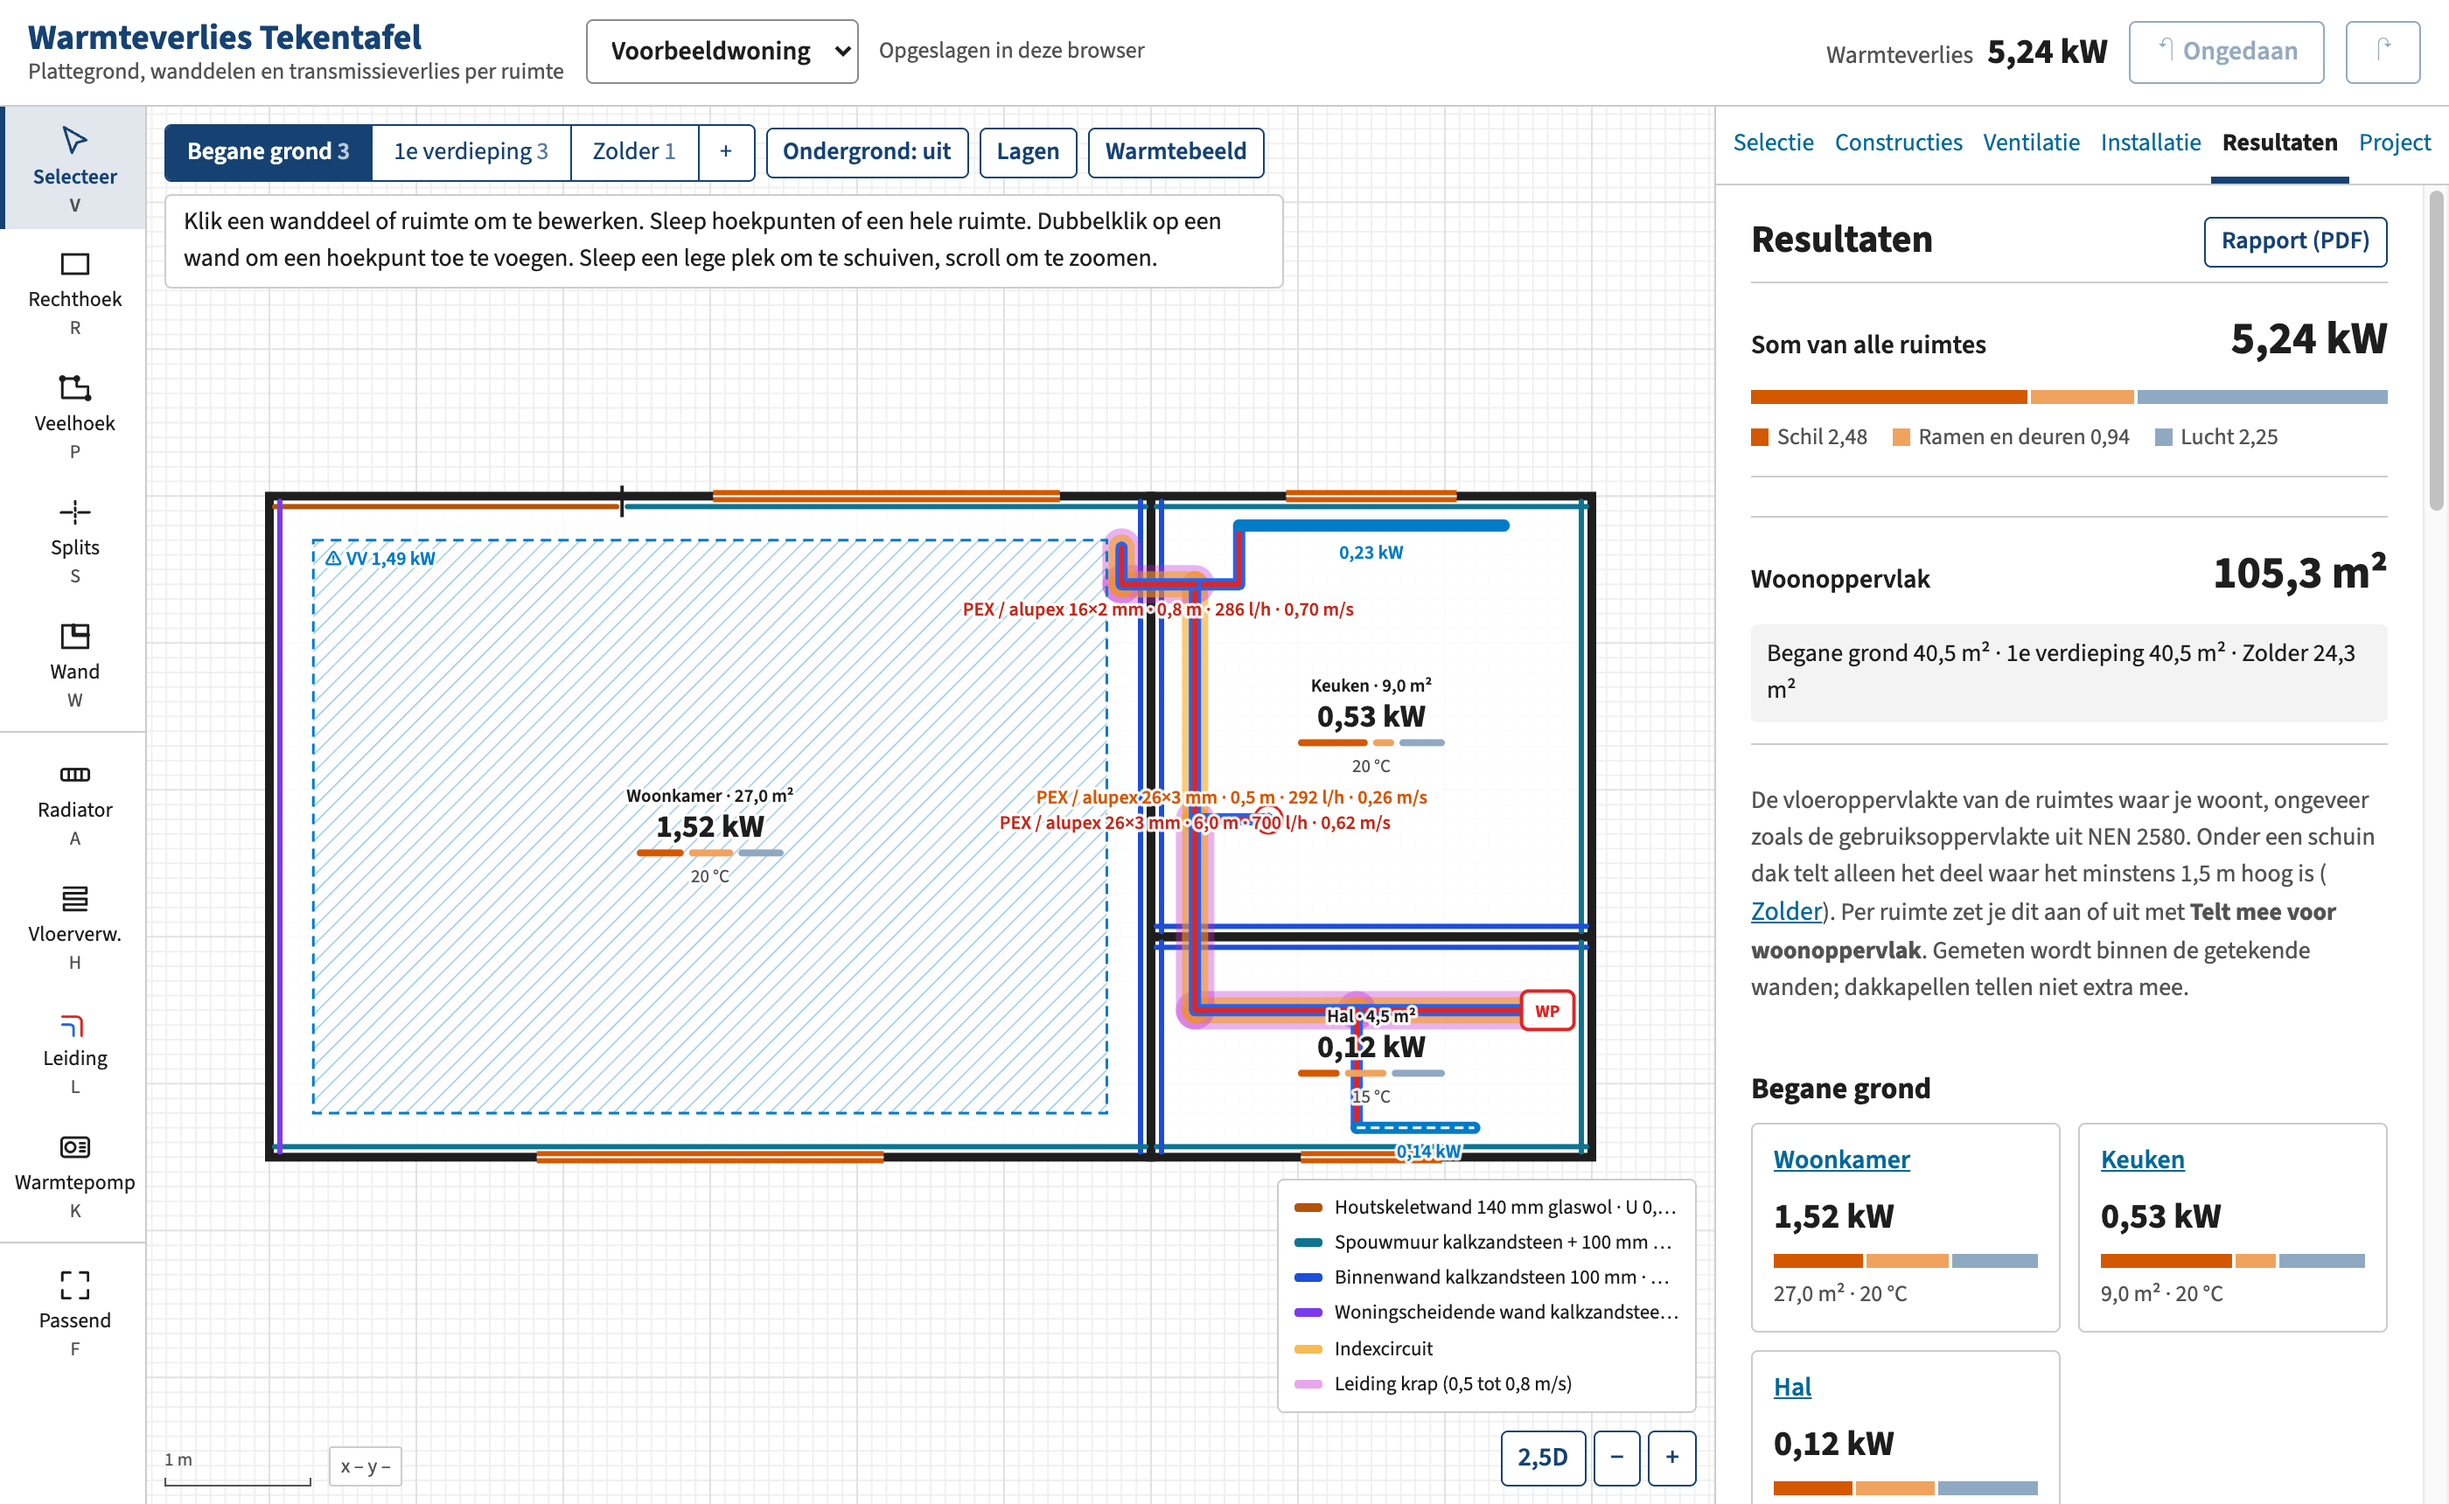
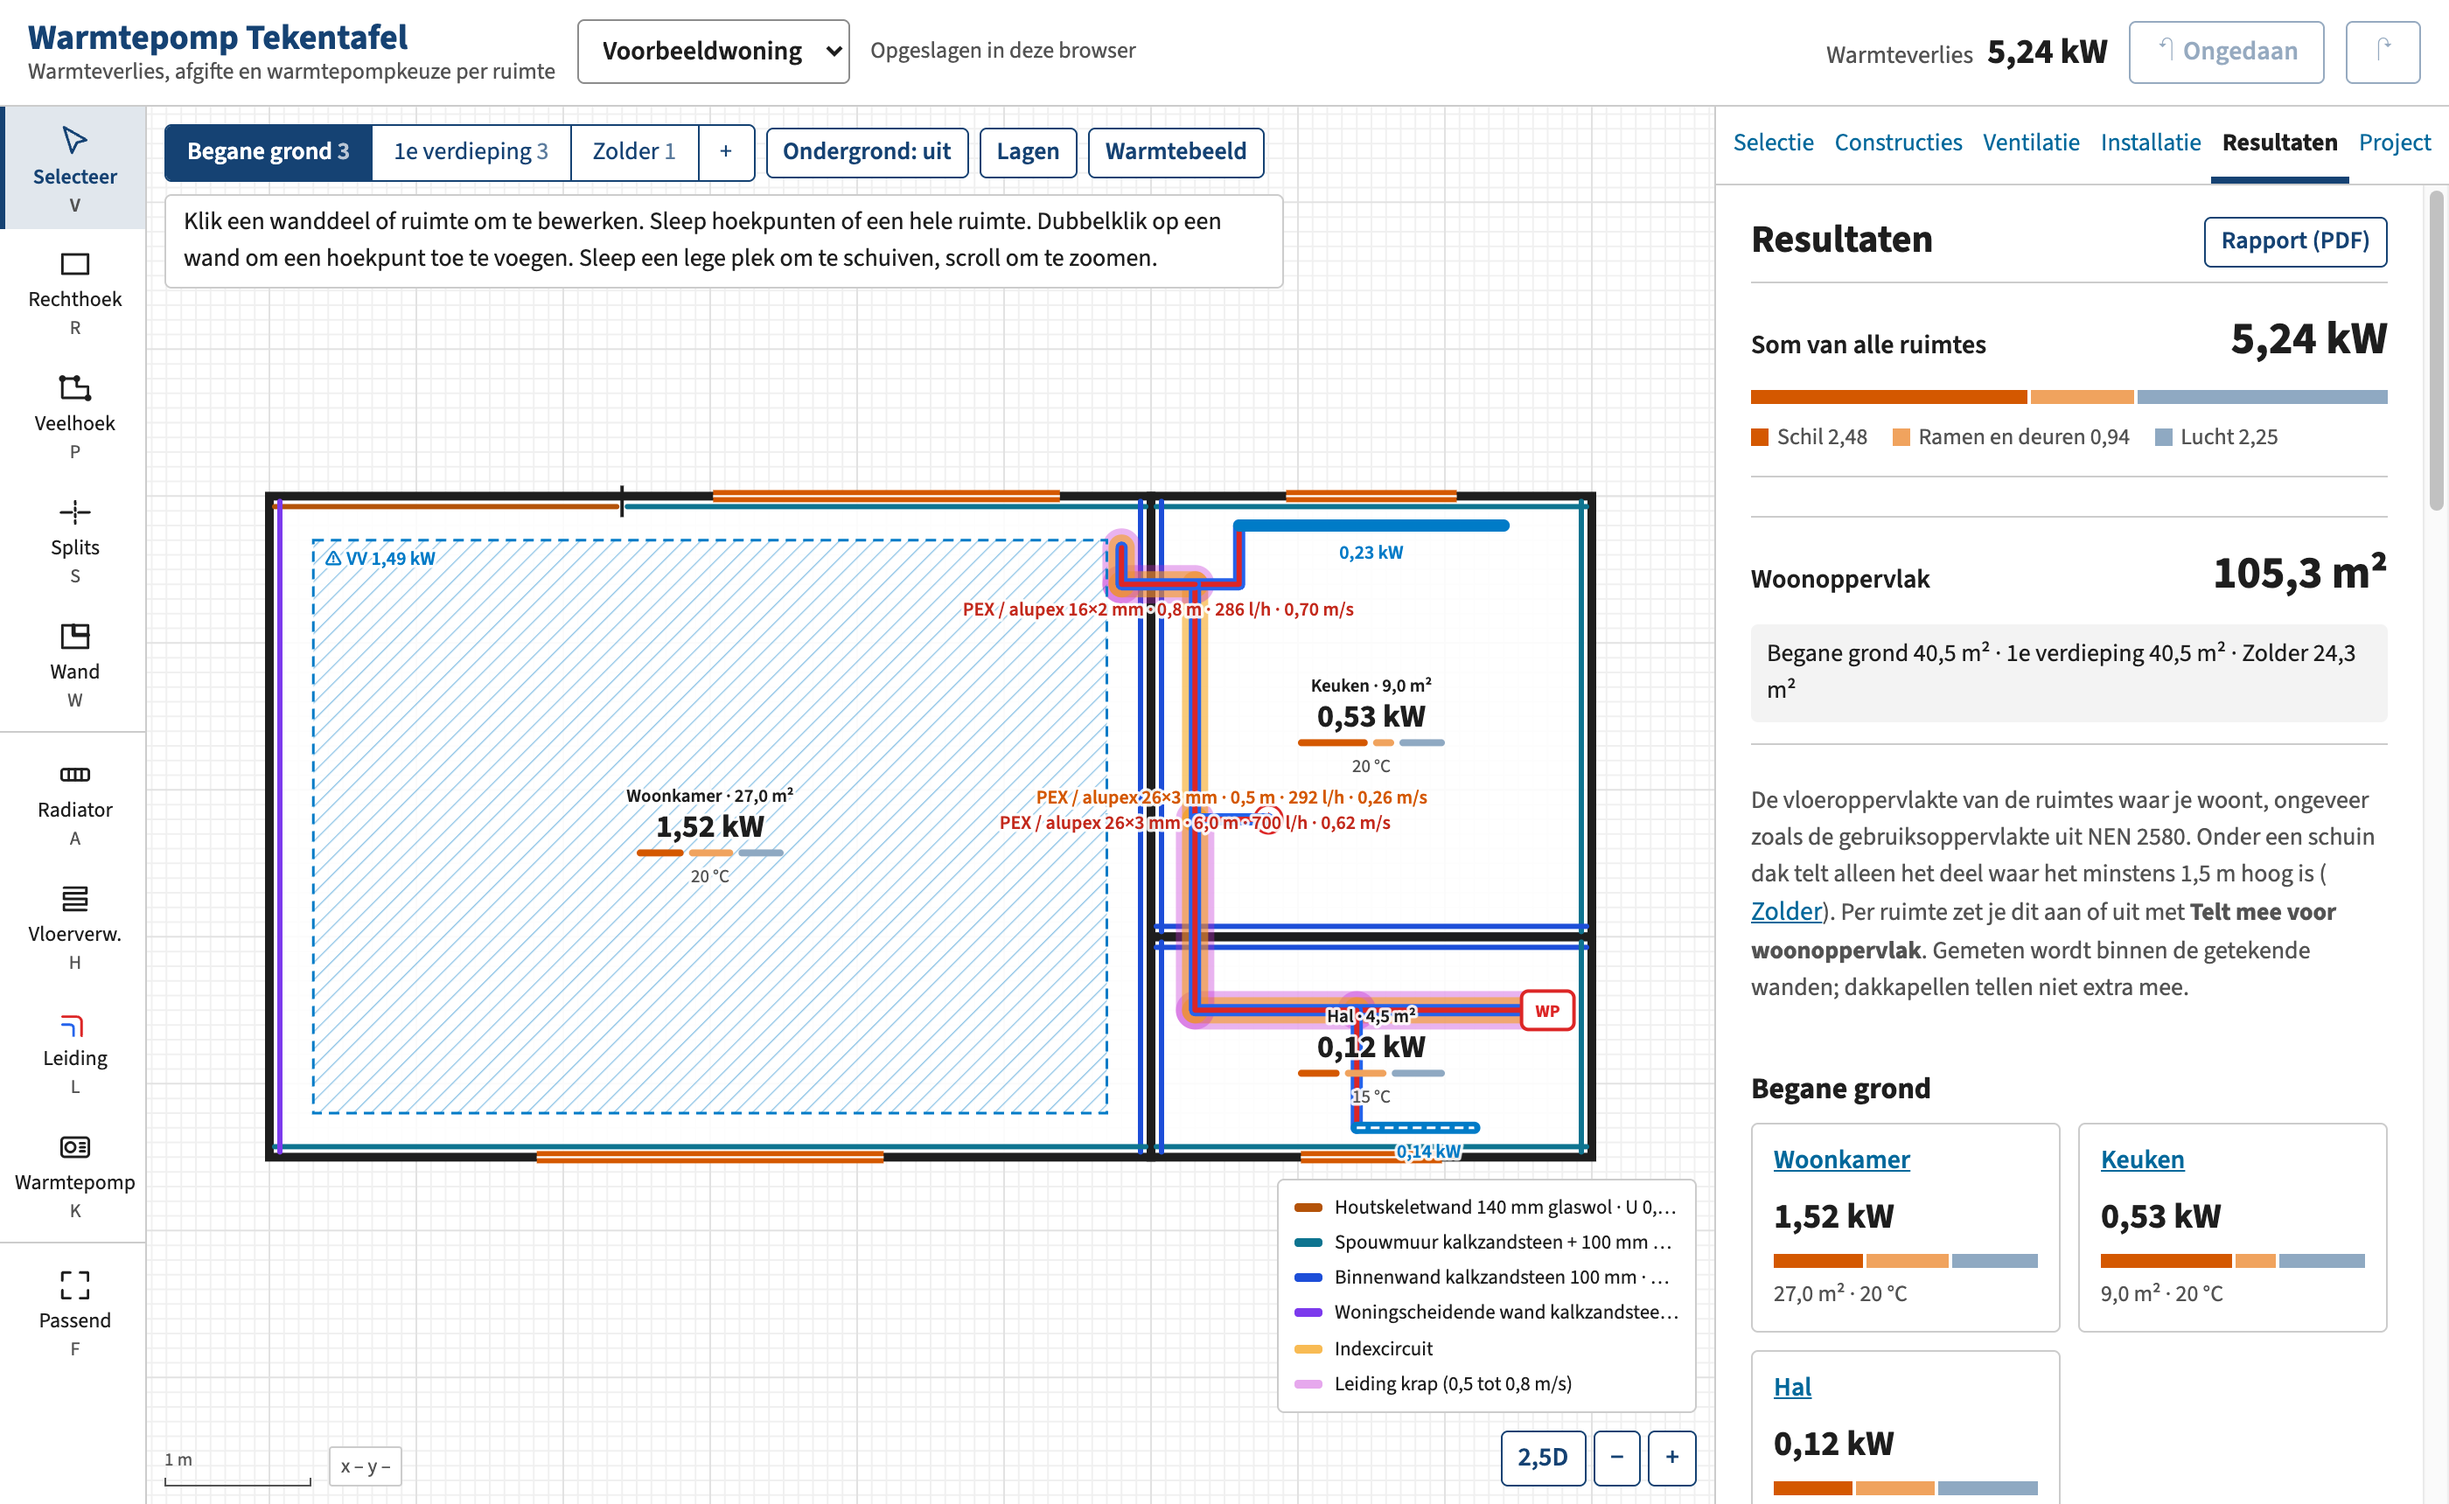
Nieuwe naam: Warmtepomp Tekentafel

Changed region(s): [[0.0311, 0.0, 0.4661, 0.0616]]

diff --git a/js/report.js b/js/report.js
@@ -242,7 +242,7 @@ function reportHtml() {
   const yr = annualHtml(c);
   if (yr)
     h += `<section class="rsec"><h2>Jaarverbruik en kosten</h2>${yr.replace('<h3>Jaarverbruik en kosten</h3>', '')}<p class="note">Gerekend met stroom € ${fmt(S.pEl, 3)} per kWh, gas € ${fmt(S.pGas, 3)} per m³${S.gasFix > 0 ? `, vaste kosten gas € ${fmt(S.gasFix, 0)} per jaar` : ''}, een cv-ketel met ${fmt(S.etaGas * 100, 0)}% rendement en een stookgrens van ${nv(S.stook, 1)} °C.</p></section>`;
-  h += `<footer class="repfoot">Gemaakt met Warmteverlies Tekentafel · ${esc(date)}. Indicatieve berekening; controleer de uitkomst voordat je erop dimensioneert.</footer>`;
+  h += `<footer class="repfoot">Gemaakt met Warmtepomp Tekentafel · ${esc(date)}. Indicatieve berekening; controleer de uitkomst voordat je erop dimensioneert.</footer>`;
   return h;
 }
 
@@ -301,7 +301,7 @@ function balanceSheetHtml() {
       })
       .join('')}</tbody></table></section>`;
   });
-  h += `<footer class="repfoot">Gemaakt met Warmteverlies Tekentafel · ${esc(date)}. De voorinstellingen volgen uit de berekende leidingen en kv-waarden; regel in de praktijk bij op de retourtemperatuur.</footer>`;
+  h += `<footer class="repfoot">Gemaakt met Warmtepomp Tekentafel · ${esc(date)}. De voorinstellingen volgen uit de berekende leidingen en kv-waarden; regel in de praktijk bij op de retourtemperatuur.</footer>`;
   return h;
 }
 

diff --git a/index.html b/index.html
@@ -3,7 +3,7 @@
   <head>
     <meta charset="utf-8" />
     <meta name="viewport" content="width=device-width,initial-scale=1,viewport-fit=cover" />
-    <title>Warmteverlies Tekentafel</title>
+    <title>Warmtepomp Tekentafel</title>
     <meta
       name="description"
       content="Teken je plattegrond en bereken het warmteverlies per ruimte, de afgifte van radiatoren en vloerverwarming, en welke warmtepomp past."
@@ -34,8 +34,8 @@
     <div class="app">
       <header class="top">
         <div class="brand">
-          Warmteverlies Tekentafel
-          <small>Plattegrond, wanddelen en transmissieverlies per ruimte</small>
+          Warmtepomp Tekentafel
+          <small>Warmteverlies, afgifte en warmtepompkeuze per ruimte</small>
         </div>
         <select class="proj" id="proj-sel" aria-label="Project"></select>
         <span class="pill" id="status">Laden…</span>

diff --git a/README.md b/README.md
@@ -1,10 +1,10 @@
-# Warmteverlies Tekentafel
+# Warmtepomp Tekentafel
 
 Teken de plattegrond van je woning en zie direct het warmteverlies per ruimte. Daarnaast rekent de app de afgifte van radiatoren en vloerverwarming door en laat zien welke warmtepomp past.
 
 **[Open de app →](https://mellotronscratch.github.io/warmteverlies-tekentafel/)**
 
-![Schermafbeelding van de Warmteverlies Tekentafel](docs/screenshot.png)
+![Schermafbeelding van de Warmtepomp Tekentafel](docs/screenshot.png)
 
 ## Wat het doet
 
